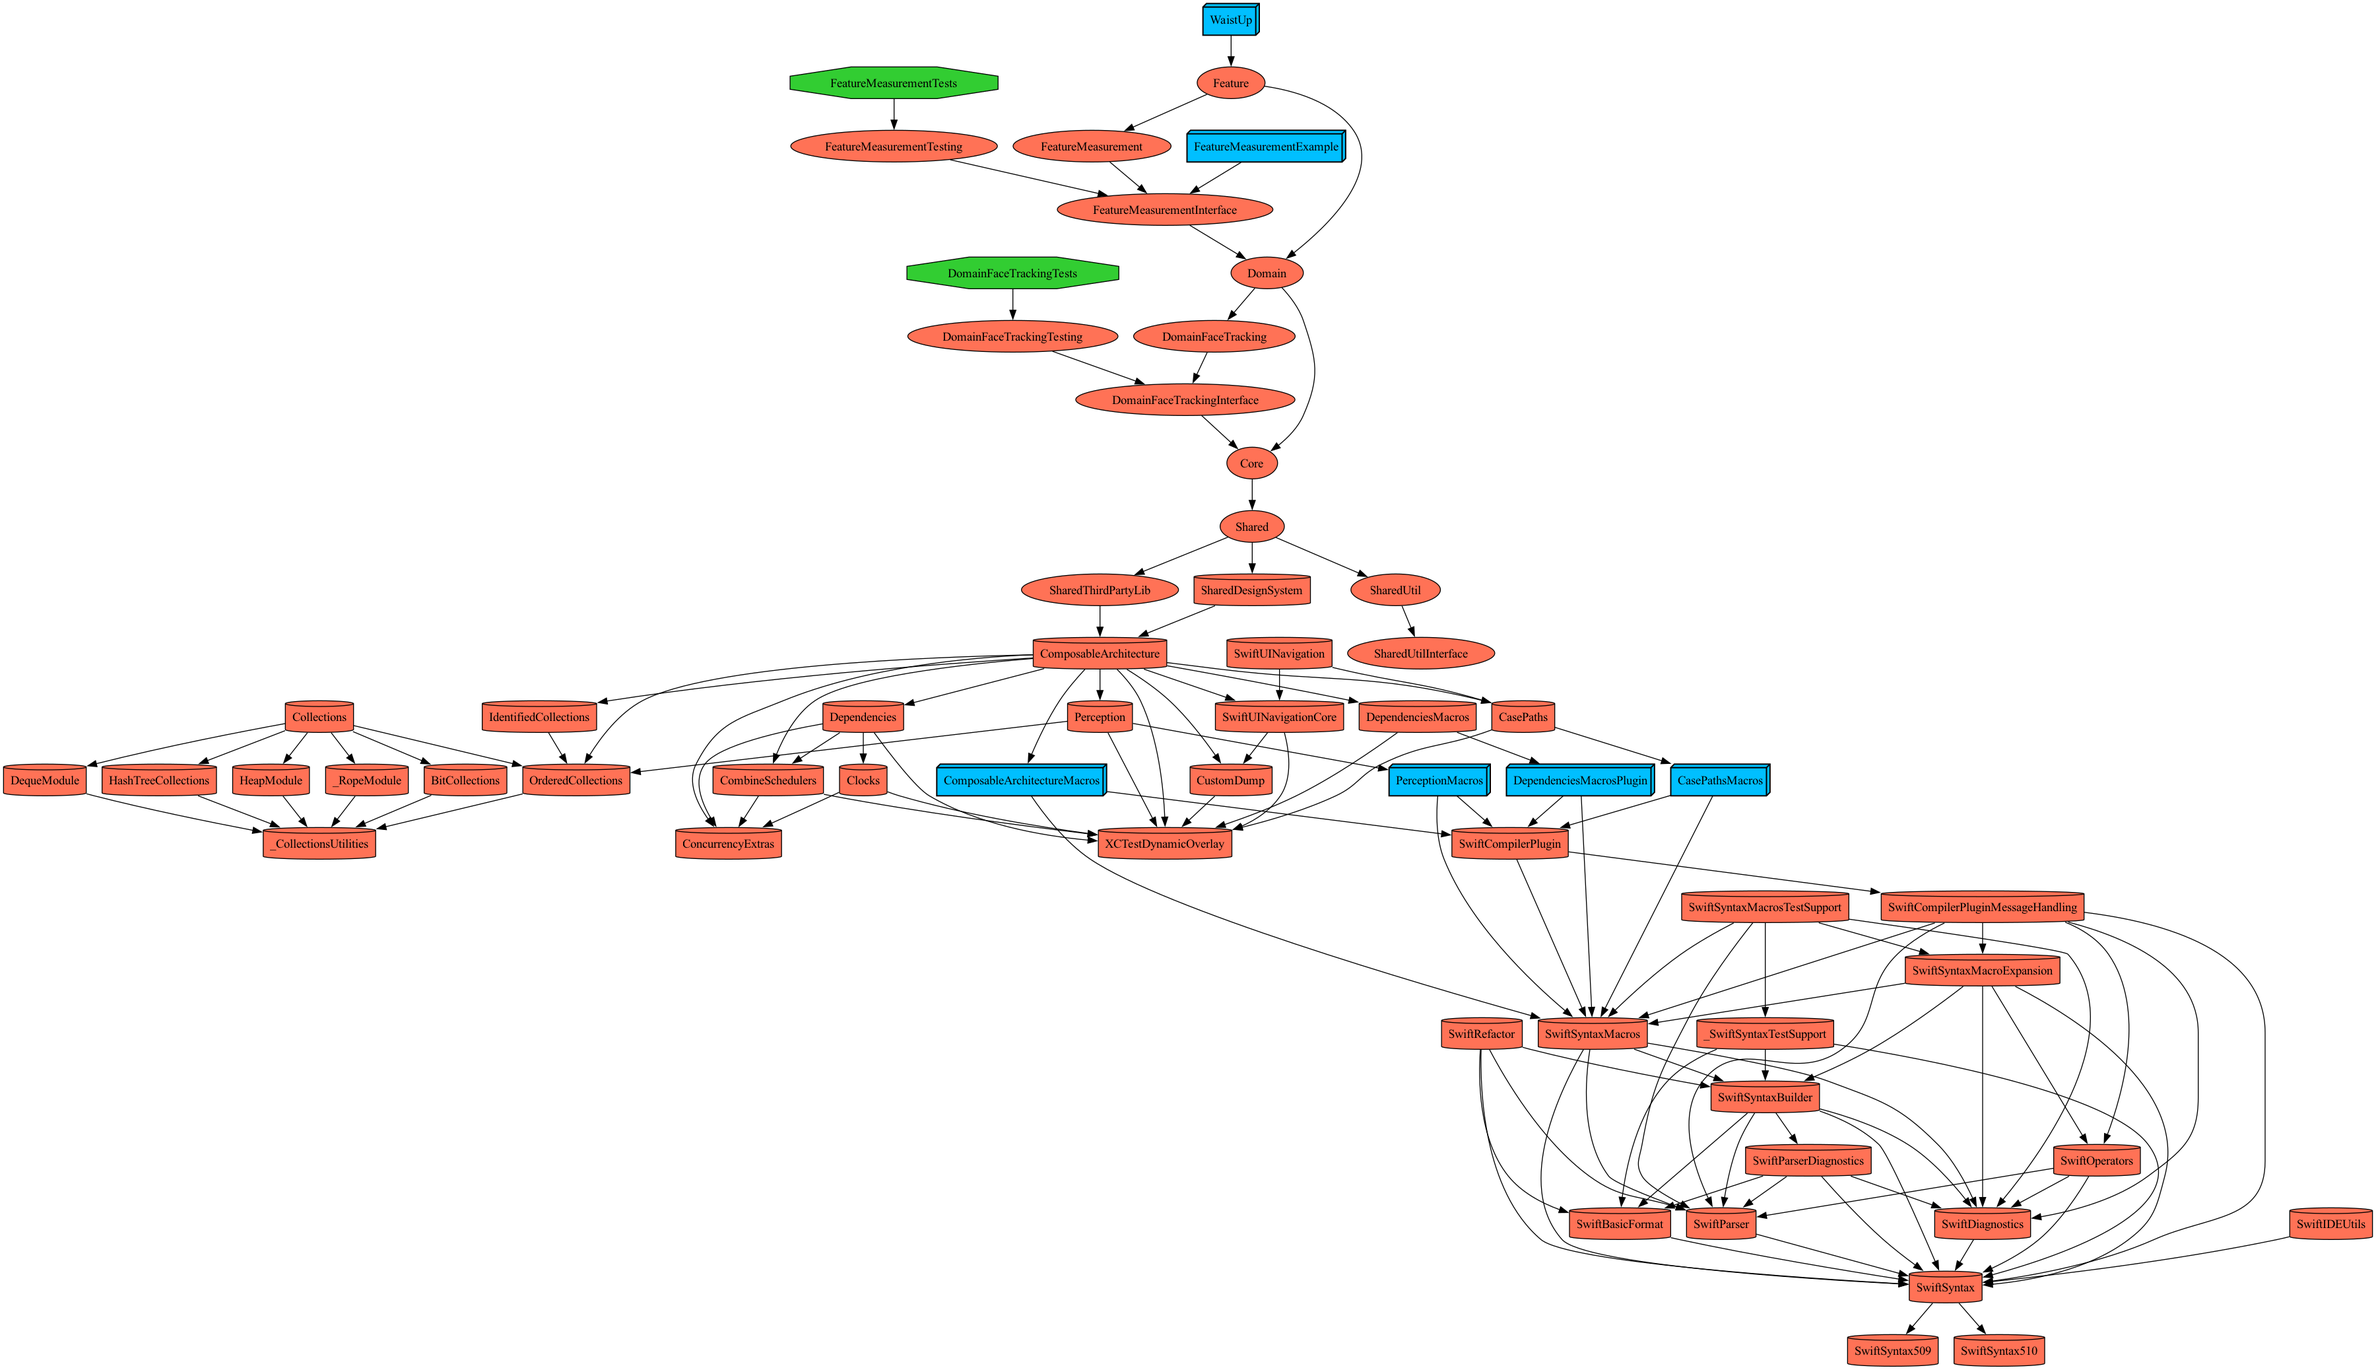
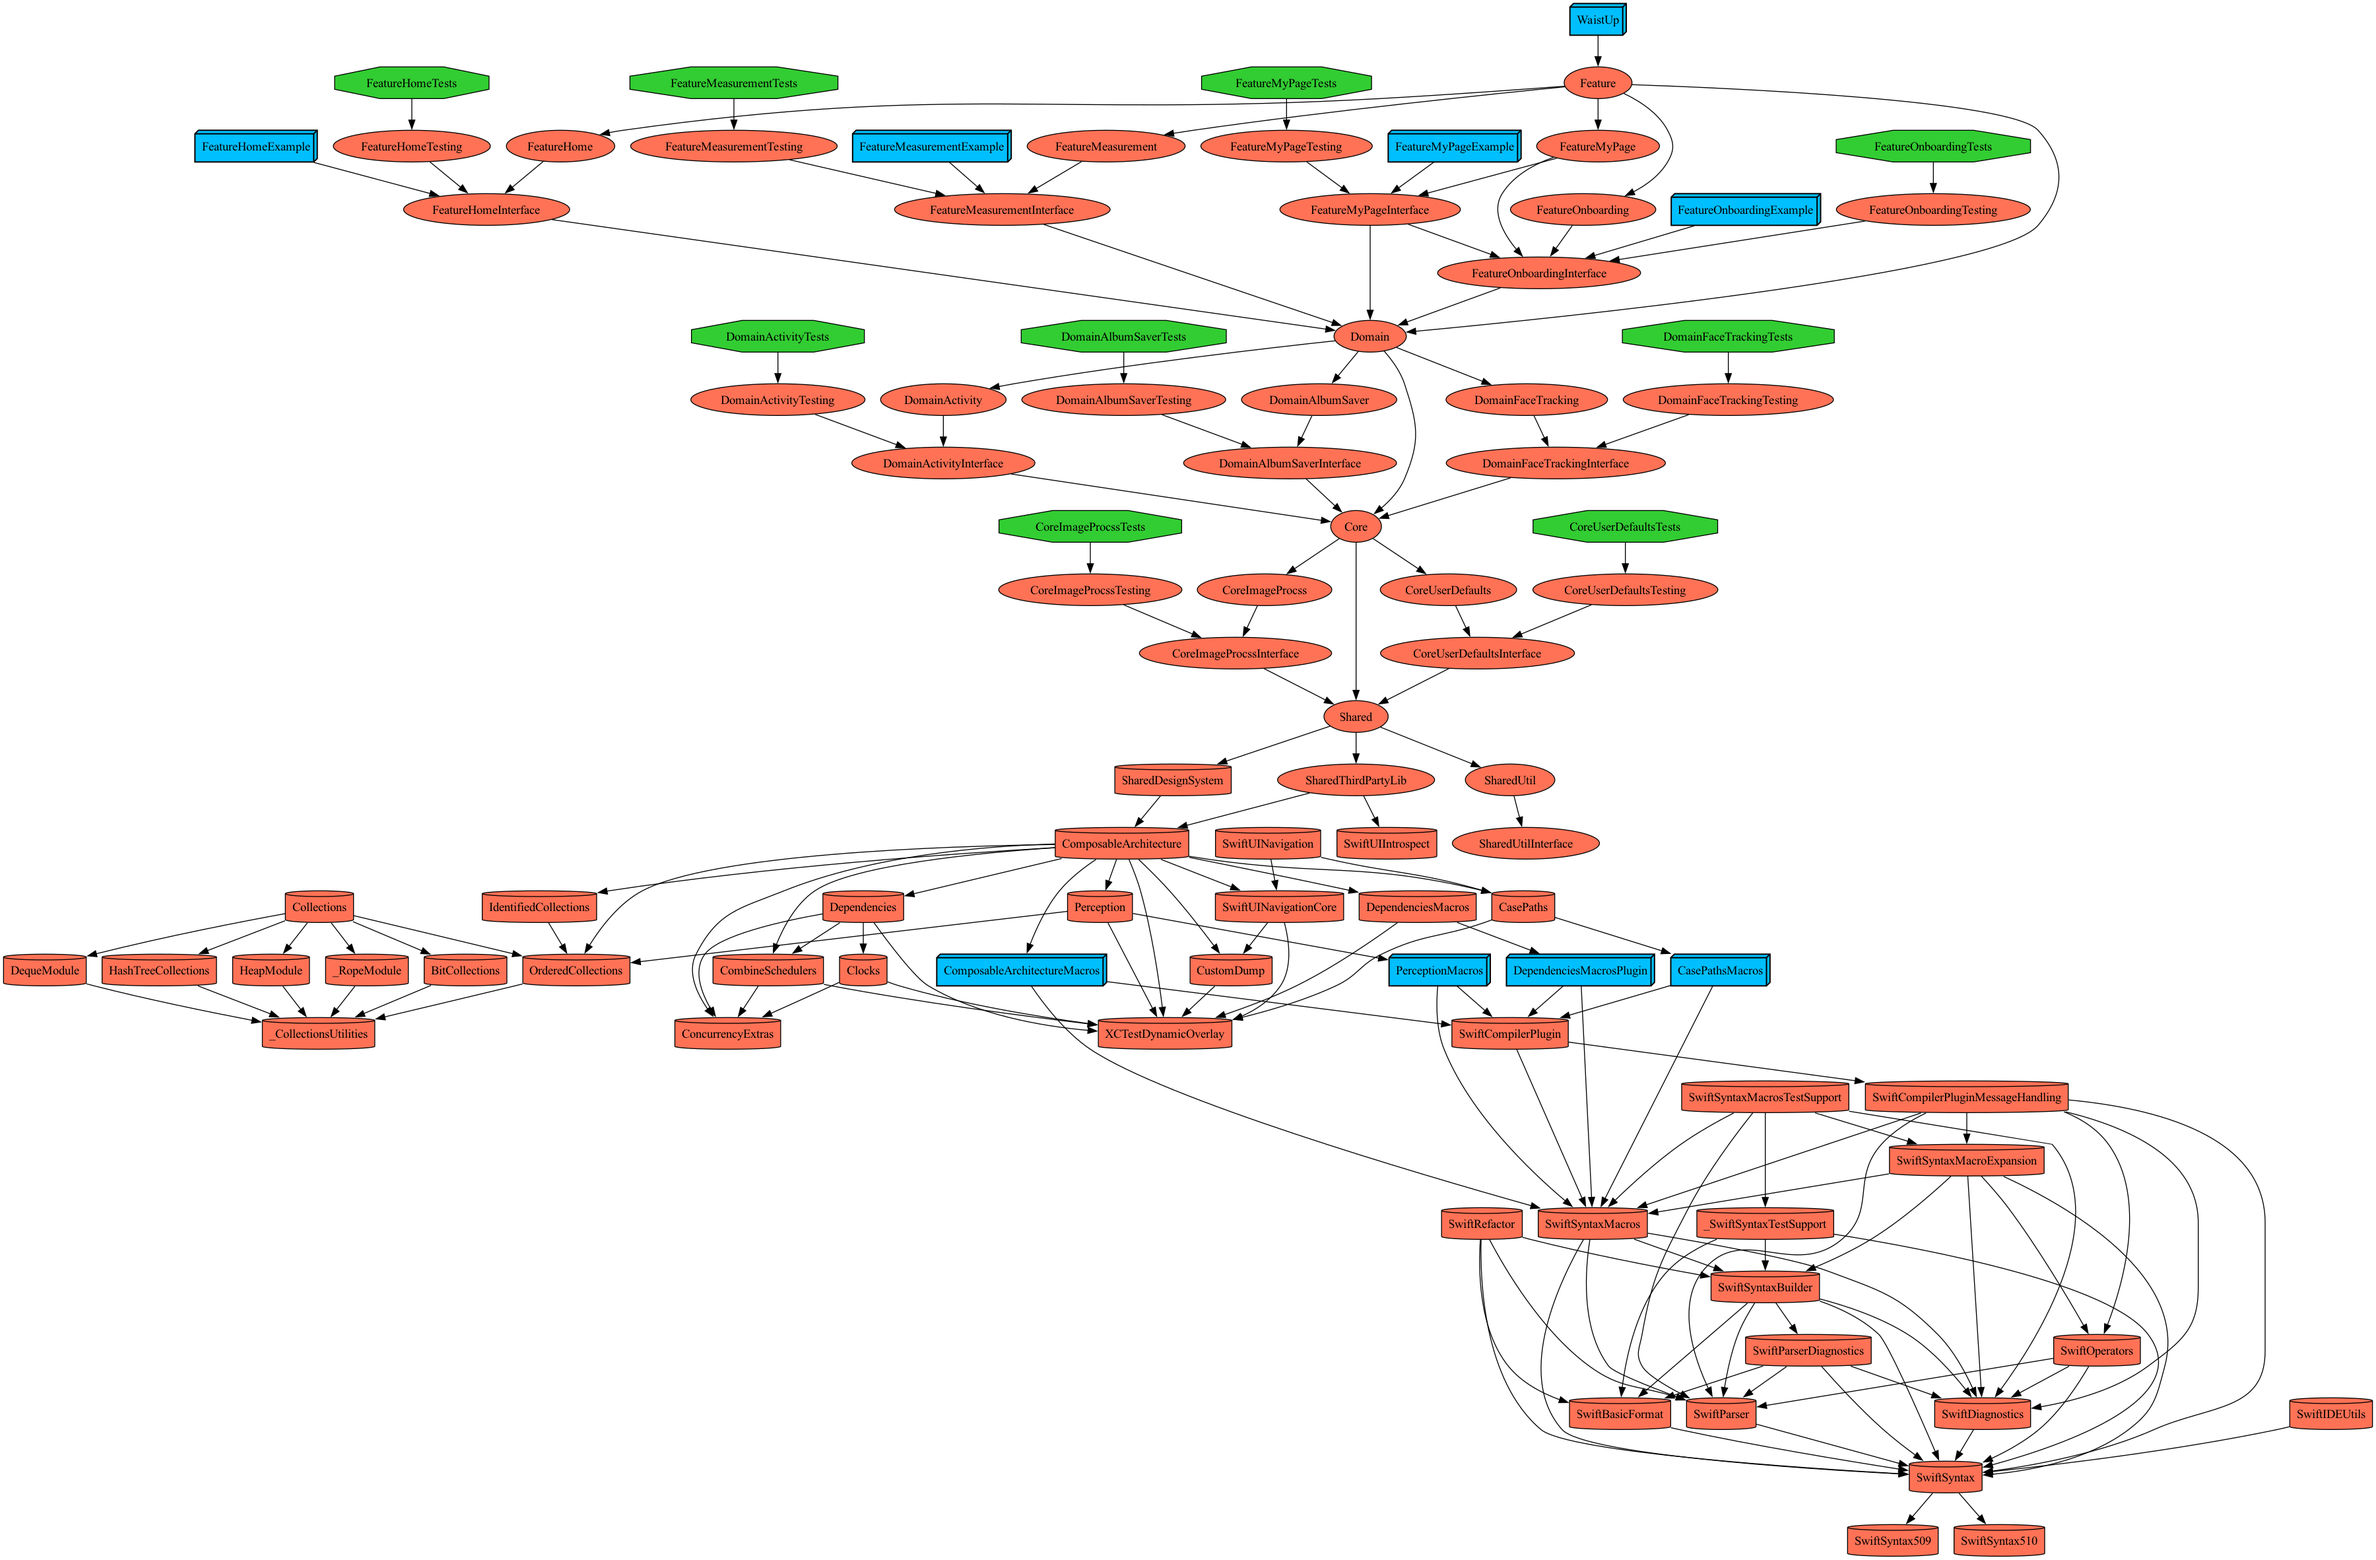
[feat] Feature - Home Activities 추가

Changed region(s): [[0.0, 0.0, 1.0, 1.0]]

diff --git a/Projects/Feature/Home/Sources/Root/HomeRootStore.swift b/Projects/Feature/Home/Sources/Root/HomeRootStore.swift
@@ -11,42 +11,30 @@ import SwiftData
 import ComposableArchitecture
 
 import FeatureHomeInterface
-import DomainActivity
-import DomainActivityInterface
+import FeatureMyPageInterface
 import SharedUtil
 
 extension HomeRootStore {
-  public init() {
-    
-    @Dependency(\.activityClient) var activityClient
+  public init(
+    activities: ActivitiesStore
+  ) {
     
     let reducer: Reduce<State, Action> = Reduce { state, action in
       switch action {
         case .onAppear:
-          let date = DateUtil.shared.toYearMonthDay(from: .now)
-          let predicate: Predicate<Activity> = {
-            return #Predicate {
-              $0.dateString == date
-            }
-          }()
           
-          let descriptor: FetchDescriptor<Activity> = .init(
-            predicate: predicate,
-            sortBy: [
-              .init(\.date, order: .reverse)
-            ]
-          )
-          
-          do {
-            state.activities = try activityClient.fetch(descriptor)
-          } catch {
-            state.activities = []
-          }
-          
+          return .none
+        case .binding(_):
+          return .none
+        
+        default:
           return .none
       }
     }
     
-    self.init(reducer: reducer)
+    self.init(
+      reducer: reducer,
+      activities: activities
+    )
   }
 }

diff --git a/Projects/Feature/Home/Interface/Sources/Root/HomeRootView.swift b/Projects/Feature/Home/Interface/Sources/Root/HomeRootView.swift
@@ -9,21 +9,49 @@ import SwiftUI
 
 import ComposableArchitecture
 
+import FeatureMyPageInterface
 import CoreUserDefaults
+import SharedDesignSystem
 
 public struct HomeRootView: View {
-  private let store: StoreOf<HomeRootStore>
+  @Bindable private var store: StoreOf<HomeRootStore>
   
   public init(store: StoreOf<HomeRootStore>) {
     self.store = store
   }
   
   public var body: some View {
-    VStack {
-      Text("홈")
+    NavigationStack(
+      path: $store.scope(
+        state: \.activities.path,
+        action: \.activities.path
+      )
+    ) {
+      VStack(alignment: .leading) {
+        title
+          .padding(.horizontal, 16)
+          .padding(.vertical, 8)
+                  
+        ActivitiesView(
+          store: store.scope(
+            state: \.activities,
+            action: \.activities
+          )
+        )
+      }
+      .onAppear {
+        store.send(.onAppear)
+      }
+    } destination: { store in
+      ActivityDetailView(store: store)
+        .toolbarRole(.editor)
     }
-    .onAppear {
-      store.send(.onAppear)
-    }
+  }
+}
+
+extension HomeRootView {
+  private var title: some View {
+    Text("홈")
+      .modifier(GamtanFont(font: .bold, size: 24))
   }
 }

diff --git a/Projects/Feature/Home/Interface/Sources/Root/HomeRootInterface.swift b/Projects/Feature/Home/Interface/Sources/Root/HomeRootInterface.swift
@@ -9,29 +9,42 @@ import Foundation
 
 import ComposableArchitecture
 
+import FeatureMyPageInterface
 import DomainActivityInterface
 
 @Reducer
 public struct HomeRootStore {
   
   private let reducer: Reduce<State, Action>
+  private let activities: ActivitiesStore
   
-  public init(reducer: Reduce<State, Action>) {
+  public init(
+    reducer: Reduce<State, Action>,
+    activities: ActivitiesStore
+  ) {
     self.reducer = reducer
+    self.activities = activities
   }
   
   @ObservableState
   public struct State: Equatable {
-    public var activities: [Activity] = []
+    public var activities: ActivitiesStore.State = .init(selectedDate: .now)
     
     public init() { }
   }
   
-  public enum Action: Equatable {
+  public enum Action: BindableAction, Equatable {
+    case binding(BindingAction<State>)
+    
     case onAppear
+    case activities(ActivitiesStore.Action)
   }
   
-  public var boday: some ReducerOf<Self> {
+  public var body: some ReducerOf<Self> {
+    BindingReducer()
+    Scope(state: \.activities, action: /Action.activities) {
+      activities
+    }
     reducer
   }
 }

diff --git a/Projects/Feature/Home/Project.swift b/Projects/Feature/Home/Project.swift
@@ -9,7 +9,8 @@ let project = Project.makeModule(
       interface: .Home,
       factory: .init(
         dependencies: [
-          .domain
+          .domain,
+          .feature(interface: .MyPage)
         ]
       )
     ),
@@ -17,7 +18,8 @@ let project = Project.makeModule(
       implements: .Home,
       factory: .init(
         dependencies: [
-          .feature(interface: .Home)
+          .feature(interface: .Home),
+          .feature(interface: .MyPage)
         ]
       )
     ),

diff --git a/Projects/Feature/Sources/MainTabStore.swift b/Projects/Feature/Sources/MainTabStore.swift
@@ -42,7 +42,11 @@ public struct MainTabStore {
   
   public var body: some ReducerOf<Self> {
     Scope(state: \.home, action: /Action.home) {
-      HomeRootStore()
+      HomeRootStore(
+        activities: ActivitiesStore(
+          activityDetail: ActivityDetailStore()
+        )
+      )
     }
     Scope(state: \.measurement, action: /Action.measurement) {
       MeasurementRootStore()

diff --git a/Projects/Feature/MyPage/Interface/Sources/Root/MyPageRootView.swift b/Projects/Feature/MyPage/Interface/Sources/Root/MyPageRootView.swift
@@ -15,11 +15,9 @@ import SharedDesignSystem
 
 public struct MyPageRootView: View {
   @Bindable private var store: StoreOf<MyPageRootStore>
-  private var viewStore: ViewStoreOf<MyPageRootStore>
   
   public init(store: StoreOf<MyPageRootStore>) {
     self.store = store
-    self.viewStore = ViewStore(store, observe: { $0 })
   }
   
   public var body: some View {

diff --git a/Projects/Feature/MyPage/Interface/Sources/Activities/ActivitiesView.swift b/Projects/Feature/MyPage/Interface/Sources/Activities/ActivitiesView.swift
@@ -16,7 +16,7 @@ public struct ActivitiesView: View {
   
   @Bindable private var store: StoreOf<ActivitiesStore>
   
-  init(store: StoreOf<ActivitiesStore>) {
+  public init(store: StoreOf<ActivitiesStore>) {
     self.store = store
   }
   
